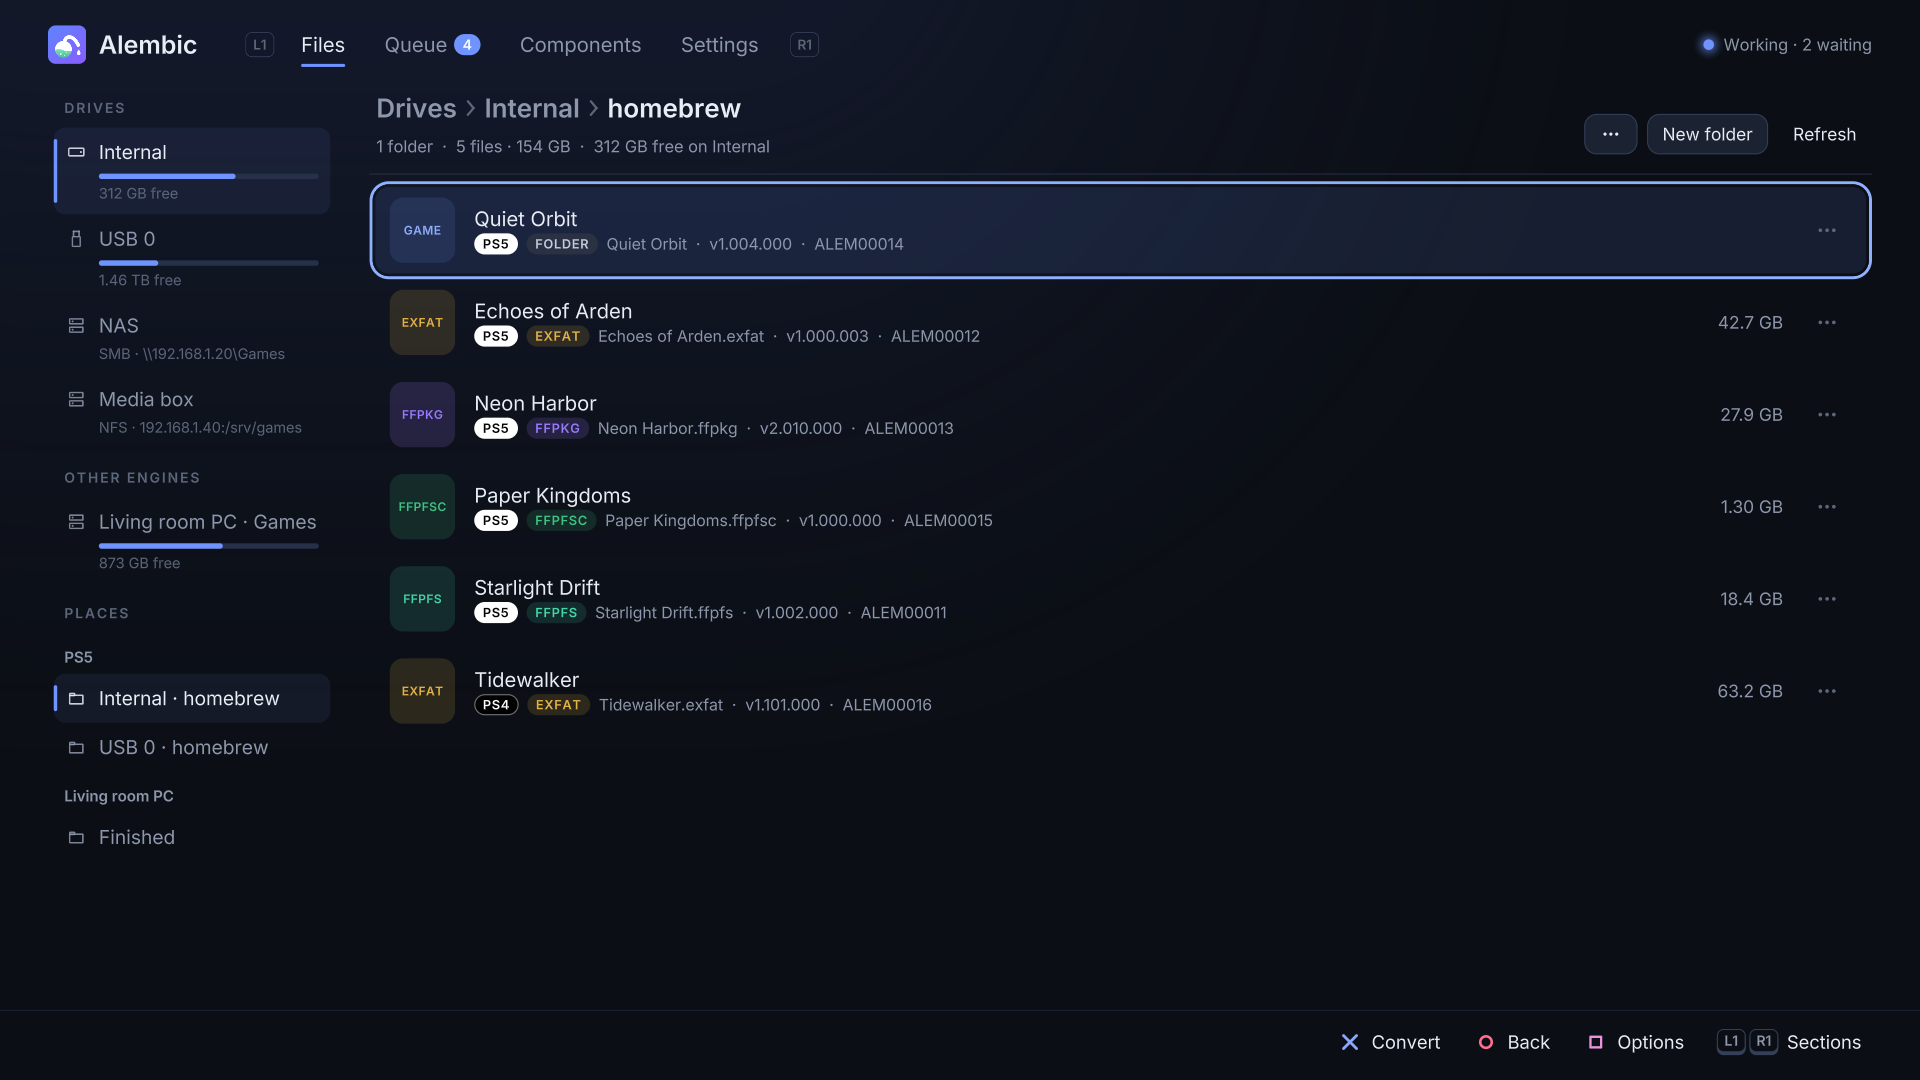
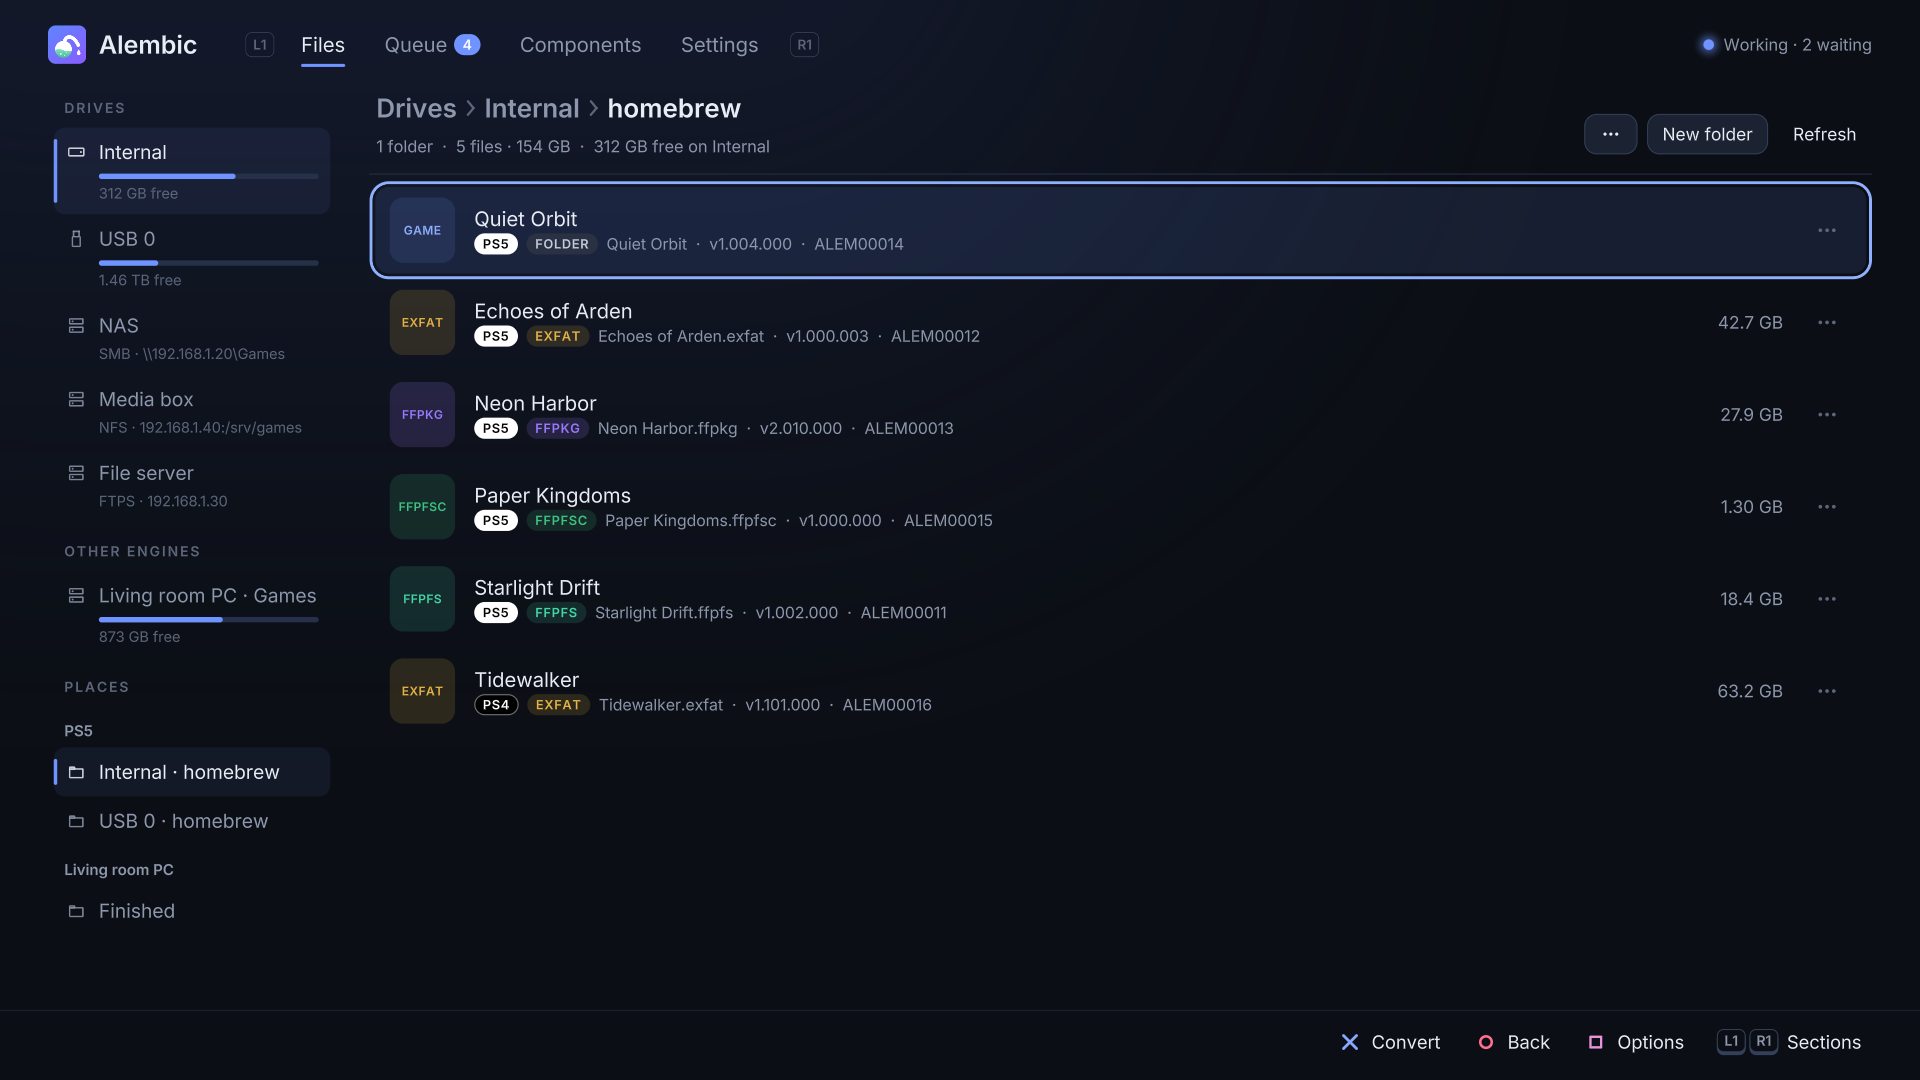
Version 0.4.0

Changed region(s): [[0.0312, 0.4278, 0.1562, 0.8556]]

diff --git a/README.md b/README.md
@@ -1,6 +1,6 @@
 # Alembic
 
-![Alembic's page in the PS5 browser: a library of games in several formats, with drives, a NAS share, an NFS export and a paired PC on the left](docs/screenshots/files.png)
+![Alembic's page in the PS5 browser: a library of games in several formats, with drives, a NAS share, an NFS export, an FTPS server and a paired PC on the left](docs/screenshots/files.png)
 
 Alembic converts PS5 and PS4 games between the formats homebrew loaders use:
 packages (PS5 debug FPKG, PS4 fake PKG), dump folders, exFAT images, FFPKG
@@ -18,9 +18,9 @@ also be read from and saved to over SMB, NFS, WebDAV or FTP.
 **Tried on a console so far:** FFPFSC images made from dumps and from
 packages run through ShadowMount+; games that need the AMPR emulator start
 once it is added; the console and a PC pair and convert for each other;
-**Install** hands a debug package to the console's installer, and an
-image or dump converted to a package (with a generated debug licence, so
-no lock on the title) installs too; a paused
+**Install** hands a debug package to the console's installer, including
+packages Alembic builds from a dump (stored or Kraken, with a generated
+debug licence, so no lock on the title); a paused
 conversion carries on after the engine is updated; the engine updates
 itself from a release (loaded through Payload Manager); the console app
 starts from ShadowMount+, starts and restarts the engine, and drives a
@@ -28,11 +28,11 @@ conversion on a paired PC; a package converted from an SMB share.
 PS4 games converted from their packages start from images through
 ShadowMount+ 1.7beta8 (it shows "Trophy registration failed" for them: a
 ShadowMount+ issue, [#97](https://github.com/drakmor/ShadowMountPlus/issues/97)).
-**Not yet:** NFS and WebDAV from a console, and real NAS boxes and Windows
-shares (all four server types were checked on a PC against Samba, rclone,
-WsgiDAV and pyftpdlib); installing an FPKG that Alembic built, PS5
-or PS4; PS4 updates
-(patch packages) and DLC. LZ4 asset packs work for some games and not for
+**Not yet:** NFS, WebDAV, SMB encryption, FTPS and HTTPS from a console,
+and real NAS boxes and Windows shares (all of them were checked on a PC
+against Samba, rclone, WsgiDAV and pyftpdlib); starting a game installed
+from an Alembic package (installs were tried, starting it was not); a PS4
+package Alembic built; PS4 updates (patch packages) and DLC. LZ4 asset packs work for some games and not for
 others.
 
 ## What it does
@@ -77,7 +77,8 @@ and the app mark each game with a **PS5** (white) or **PS4** (black) pill.
   [MkPFS](https://github.com/PSBrew/MkPFS) (`pack folder --raw
   --no-compress`); FPKG output matches
   [ProsperoPkgTool](https://github.com/pearlxcore/ProsperoPkgTool)
-  (`img_create`, stored, with the same fixed seed); PS4 packages match
+  (`img_create`, stored or `--compression kraken`, with the same fixed
+  seed); PS4 packages match
   [LibOrbisPkg](https://github.com/maxton/LibOrbisPkg)'s `pkg_build`, also
   when rebuilding a package from the project its `pkg_makegp4` extracts.
 - **LZ4 asset packs** for drakmor's [ampr_emu](https://github.com/drakmor/ampr_emu)
@@ -124,10 +125,11 @@ GitHub release first, checked against `SHA256SUMS`).
 3. In **Files**, pick a game on internal storage, USB, a network server (SMB,
    NFS, WebDAV or FTP) or a paired engine's drive (a pill tells PS5 and PS4
    games apart), then
-   **Convert**, **Install**, **Copy** or **Move**. Install on an image or a
-   folder converts it to a package, hands that to the console's installer
-   and deletes it once the installer has read it (it needs room for the
-   package until then), unless **Keep the package** is on.
+   **Convert**, **Install** (packages), **Copy** or **Move**. Converting a
+   PS5 game to a package can hand it to the console's installer when done
+   (**Install when done**); the package is then deleted once the installer
+   has read it, unless **Keep the package** is on, so it needs room until
+   then.
 4. Jobs run one at a time in **Queue**: pause, resume (long jobs continue
    from a checkpoint), reorder, cancel. You get a notification when one
    finishes.
@@ -331,7 +333,8 @@ it follows. They need the reference projects checked out in `.refs/`
 
 ```sh
 tools/oracle/compare.sh        # exFAT, FFPKG, FFPFS, FFPFSC vs PS5PKGTool and MkPFS
-tools/pkg-oracle/compare.sh    # FPKG reading vs packages built by ProsperoPkgTool / LibProsperoPKG
+tools/pkg-oracle/compare.sh    # FPKG reading and writing vs ProsperoPkgTool / LibProsperoPKG
+tools/pkg-oracle/write_samples.sh  # FPKG writing vs ProsperoPkgTool on your own packages
 tools/lz4-oracle/compare.sh    # LZ4 packs vs ampr_emu's ampr_pack.py
 tools/ps4-oracle/compare.sh    # PS4 packages vs LibOrbisPkg's pkg_build, pkg_extract and pkg_validate
 ```
@@ -342,7 +345,7 @@ tools/ps4-oracle/compare.sh    # PS4 packages vs LibOrbisPkg's pkg_build, pkg_ex
   in this repository or its binaries. FPKG output uses ProsperoPkgTool's
   published key files; PS4 package output uses LibOrbisPkg's `Keys.cs` (it
   also holds the debug licence key, used only to generate a licence for a
-  game that has none). The engine downloads both on request.
+  game that has none, PS5 or PS4). The engine downloads both on request.
 - No third-party binaries: ampr_emu's `libSceAmpr.sprx` is downloaded from its
   official release, pinned by SHA-256.
 

diff --git a/docs/NOTES.md b/docs/NOTES.md
@@ -2,7 +2,7 @@
 
 Chronological log below; **read "Where we are" and "Next session" first.**
 
-## Where we are (2026-10-31, after release 0.3.3)
+## Where we are (2026-10-31, release 0.4.0)
 
 ### What works
 
@@ -32,7 +32,7 @@ Chronological log below; **read "Where we are" and "Next session" first.**
   downloads third-party files pinned by SHA-256. Inputs can be files shared
   from a PC browser tab or network servers (SMB, NFS, WebDAV, FTP); outputs
   can go to them (formats written front to back only).
-- **Since 0.3.3 (2026-10-31):** Kraken FPKG output (byte-identical to
+- **In 0.4.0 (2026-10-31):** Kraken FPKG output (byte-identical to
   ProsperoPkgTool, ~2x faster on the console after the encoder stopped
   allocating per block); PS5 packages get a generated debug licence (no
   lock); Install... on images and folders (convert, install over HTTP,
@@ -2902,6 +2902,17 @@ What it took:
 - **Not pursued:** installing on the fly (on the console or from a PC
   engine), widening the payload's CPU set (kernel-level), a shorter
   20 s settle before deleting.
+
+### 2026-10-31: version 0.4.0
+
+- Engine and app 0.4.0 (CMake, the app's contentVersion 00.004.000).
+  README: what was tried on a console (Alembic-built packages install,
+  no lock), what was not (starting such a game; NFS, WebDAV, SMB
+  encryption, FTPS, HTTPS from a console), Kraken parity, Install when
+  done; screenshots retaken (the stand-in engine has an FTPS server and a
+  USB package now; page shots with Brave as BROWSER).
+- Owner: the release text does not call Install when done "installing
+  images" (misleading): it converts to a package and hands that over.
 
 ## Next session
 
